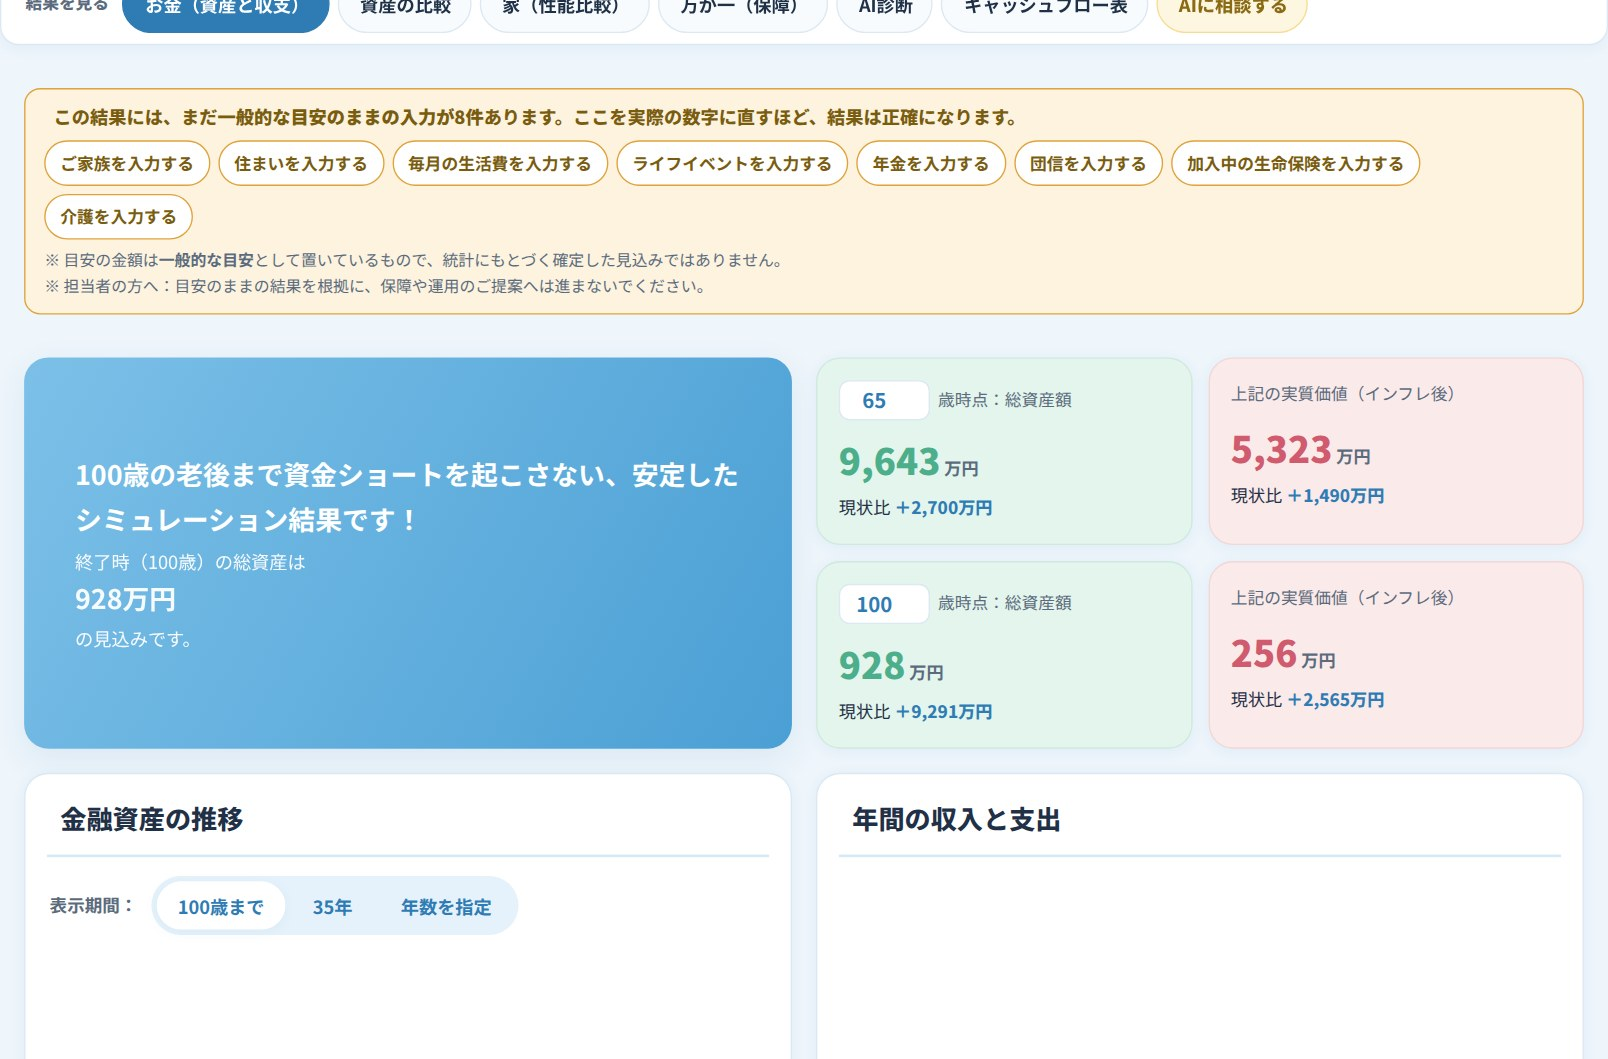
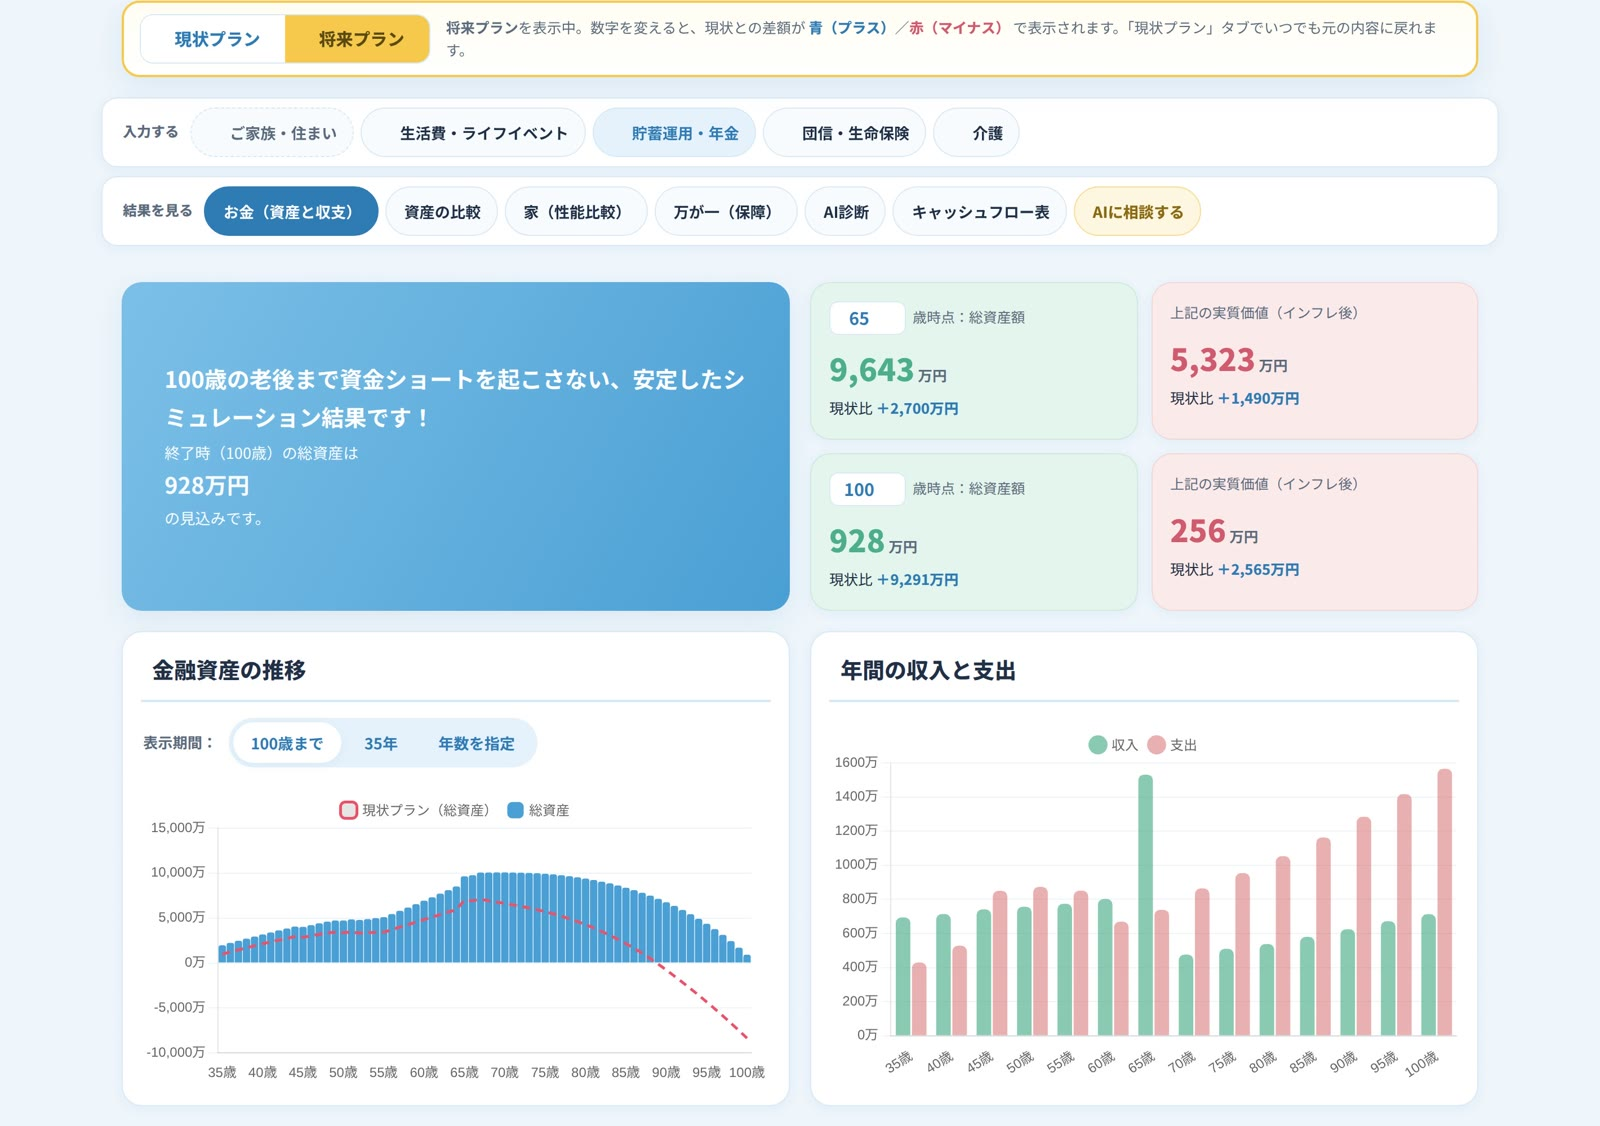
案内LPの画面写しを6枚差し替えた
- 中身をのぞく 01：主役を「分野の一覧（生命保険67件）」に。添えを
  「NISAと保険（増やす箱／備える箱）」「安心できそうな保険と安心できる保険」に
- 中身をのぞく 03：主役を「お金（資産と収支）」に。添えを「資産の比較」
  「AIになんでも相談チャット」に。本文とキャプションも、映っている画面に合わせた
- 中身をのぞく 04：AI師匠の返事を撮り直し、左の空いていた列を切り落とした
- 画面写しは全て 1600px 幅にそろえた

検証：公開版を 1440/1280/1024/820/560/390px で実測。画像35枚がすべて読める・
横あふれ0・pageerror 0。

Claude-Session: https://claude.ai/code/session_01Qzw9iWvK6tCgknqeWNnsAw

diff --git a/hoken-lp/index.html b/hoken-lp/index.html
@@ -737,13 +737,16 @@ footer{border-top:1px solid var(--line); padding:38px 0; font-size:13px; color:v
           <p class="rv" style="--d:.08s">損得の話に見えて、実は線を3本引けば済む話です。生命保険・医療・年金・相続・税金まで<b>11分野295個以上</b>の読みものを、まず自分が読む材料として置いています。読んだうえで、自分の言葉に置き換えてお客様にお話しいただく形です。</p>
           <span class="pk-t rv" style="--d:.12s">代理店さまの学習資料　11分野・295個以上</span>
         </div>
+        <!-- ★2026-09-11 ユーザー指示で3枚とも差し替えた。
+             いちばん目立つ位置＝分野の一覧（生命保険67件）。添えに読みもの2点。
+             撮り直しは scratchpad の shots14.js／shots14b.js／shots14c.js -->
         <figure class="pk-im rvi" style="--d:.06s">
-          <img src="hoken-lp-photos/app-kihon.jpg" alt="定期と終身の考え方のページ。家が燃えなかった年を損したとは言いません" loading="lazy">
+          <img src="hoken-lp-photos/app-bunya.jpg" alt="学習資料の一覧。生命保険の分野だけで67件が並ぶ" loading="lazy">
           <div class="pk-sub">
-            <img src="hoken-lp-photos/app-kihon2.jpg" alt="どちらが得か、ではなく。線は3本あります" loading="lazy">
-            <img src="hoken-lp-photos/app-cards.jpg" alt="学習資料の一覧。分野から選べる" loading="lazy">
+            <img src="hoken-lp-photos/app-nisa.jpg" alt="NISAと保険。片方は増やす箱、もう片方は備える箱" loading="lazy">
+            <img src="hoken-lp-photos/app-anshin.jpg" alt="安心できそうな保険と、安心できる保険。入口が不安か目的か" loading="lazy">
           </div>
-          <figcaption>ことばの種明かしから入り、線を3本引いて考え方を渡します。分野からも1本ずつ選べます。</figcaption>
+          <figcaption>分野を選ぶと、その場で読める材料が並びます。生命保険だけで67件。どれも「損か得か」ではなく、考え方の順番を渡す組み立てです。</figcaption>
         </figure>
       </div>
 
@@ -774,17 +777,22 @@ footer{border-top:1px solid var(--line); padding:38px 0; font-size:13px; color:v
         <div class="pk-tx">
           <span class="pk-n rv">03</span>
           <h3 class="rv" style="--d:.04s">ライフプランは、必要だと思う。<br>——でも、何を聞いて、どう進める。</h3>
-          <p class="rv" style="--d:.08s">面談は<b>録音するだけ</b>。話した内容が文字起こしと概要にまとまるので、聞き漏らしが埋まります。そのうえで<b>次に何をしたらいいか</b>を、重要度とスピードで並べた見取り図にしてくれます。<b>約300世帯</b>ぶんの入力項目もそのまま入っているので、ゼロから組み立てる必要はありません。</p>
-          <span class="pk-t rv" style="--d:.12s">音声で入力　概要も、次の一手も自動で</span>
+          <p class="rv" style="--d:.08s">入れるのは、いつもの家計です。そこから先は画面が受け持ちます。<b>100歳までのお金の見通し</b>、<b>現状と将来を並べた比較</b>、その場で聞ける<b>AI相談</b>まで。面談を録音すれば文字起こしと概要も残るので、聞き漏らしも埋まります。<b>約300世帯</b>ぶんの入力項目がそのまま入っているので、ゼロから組み立てる必要はありません。</p>
+          <span class="pk-t rv" style="--d:.12s">約300世帯の実績　現状と将来を、その場で並べる</span>
         </div>
+        <!-- ★2026-09-11 ユーザー指示で3枚とも差し替えた（前は 見取り図／お金／生活費の入力／CF表）。
+             いちばん目立つ位置＝お金（資産と収支）。添えに 資産の比較 と AI相談。
+             撮り直しは scratchpad の lpshots16.js。
+             ★グラフは Chart.js。この環境からは CDN に届かないので、npm から取った
+               同じ版を route で差し込んでから撮ること（でないと白い枠だけが写る）
+             ★赤い「要対策／資金がショート」が無いことを確かめてから撮る -->
         <figure class="pk-im rvi" style="--d:.06s">
-          <img src="hoken-lp-photos/lp-tenote.jpg" alt="次の一手の見取り図。重要度とスピードで並べ、誰がやるかまで振り分けられている" loading="lazy">
+          <img src="hoken-lp-photos/lp-okane.jpg" alt="お金の見通し。100歳までの金融資産の推移と、年間の収入と支出" loading="lazy">
           <div class="pk-sub">
-            <img src="hoken-lp-photos/lp-okane.jpg" alt="お金の見通し。100歳まで資金ショートを起こさない安定した結果" loading="lazy">
-            <img src="hoken-lp-photos/app-seikatsu.jpg" alt="生活費の入力。食費・外食費・日用品・電気・ガス・水道・携帯代まで1項目ずつ" loading="lazy">
-            <img src="hoken-lp-photos/app-cf.jpg" alt="年齢別のキャッシュフロー表" loading="lazy">
+            <img src="hoken-lp-photos/lp-hikaku.jpg" alt="現状と将来をくらべる。総資産と資金ショートの有無を並べて見る" loading="lazy">
+            <img src="hoken-lp-photos/lp-aichat.jpg" alt="AIになんでも相談チャット。入力した数字を読み取ってその場で答える" loading="lazy">
           </div>
-          <figcaption>録音 → 文字起こしと概要 → 次の一手。お金の見通しと年ごとの表まで、そのまま続きます。</figcaption>
+          <figcaption>入れた数字が、そのままお金の見通しに。現状と将来を並べて比べ、分からないことはその場で聞けます（画面は入力例です）。</figcaption>
         </figure>
       </div>
 
